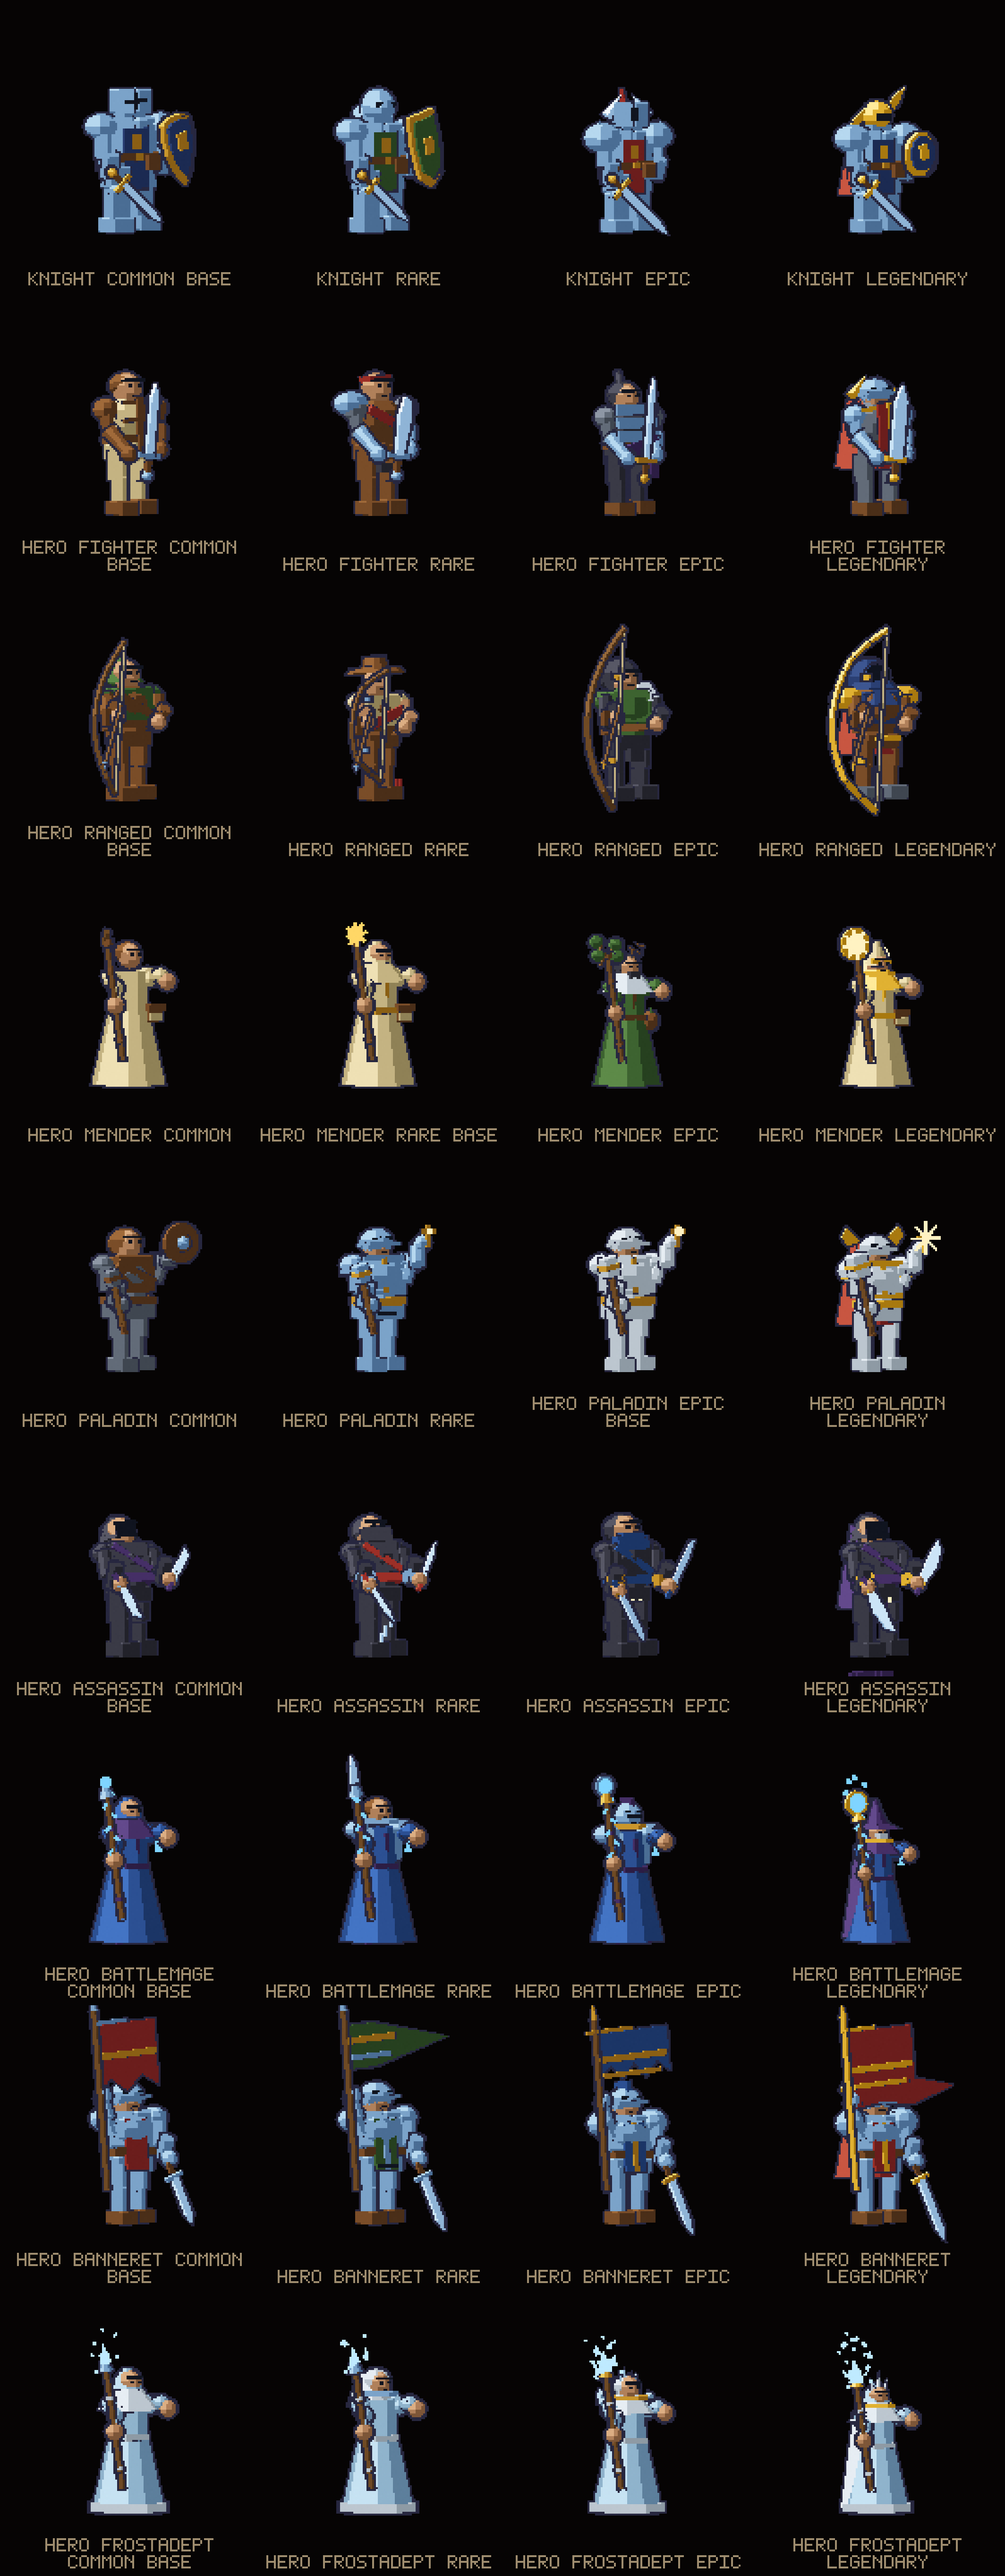
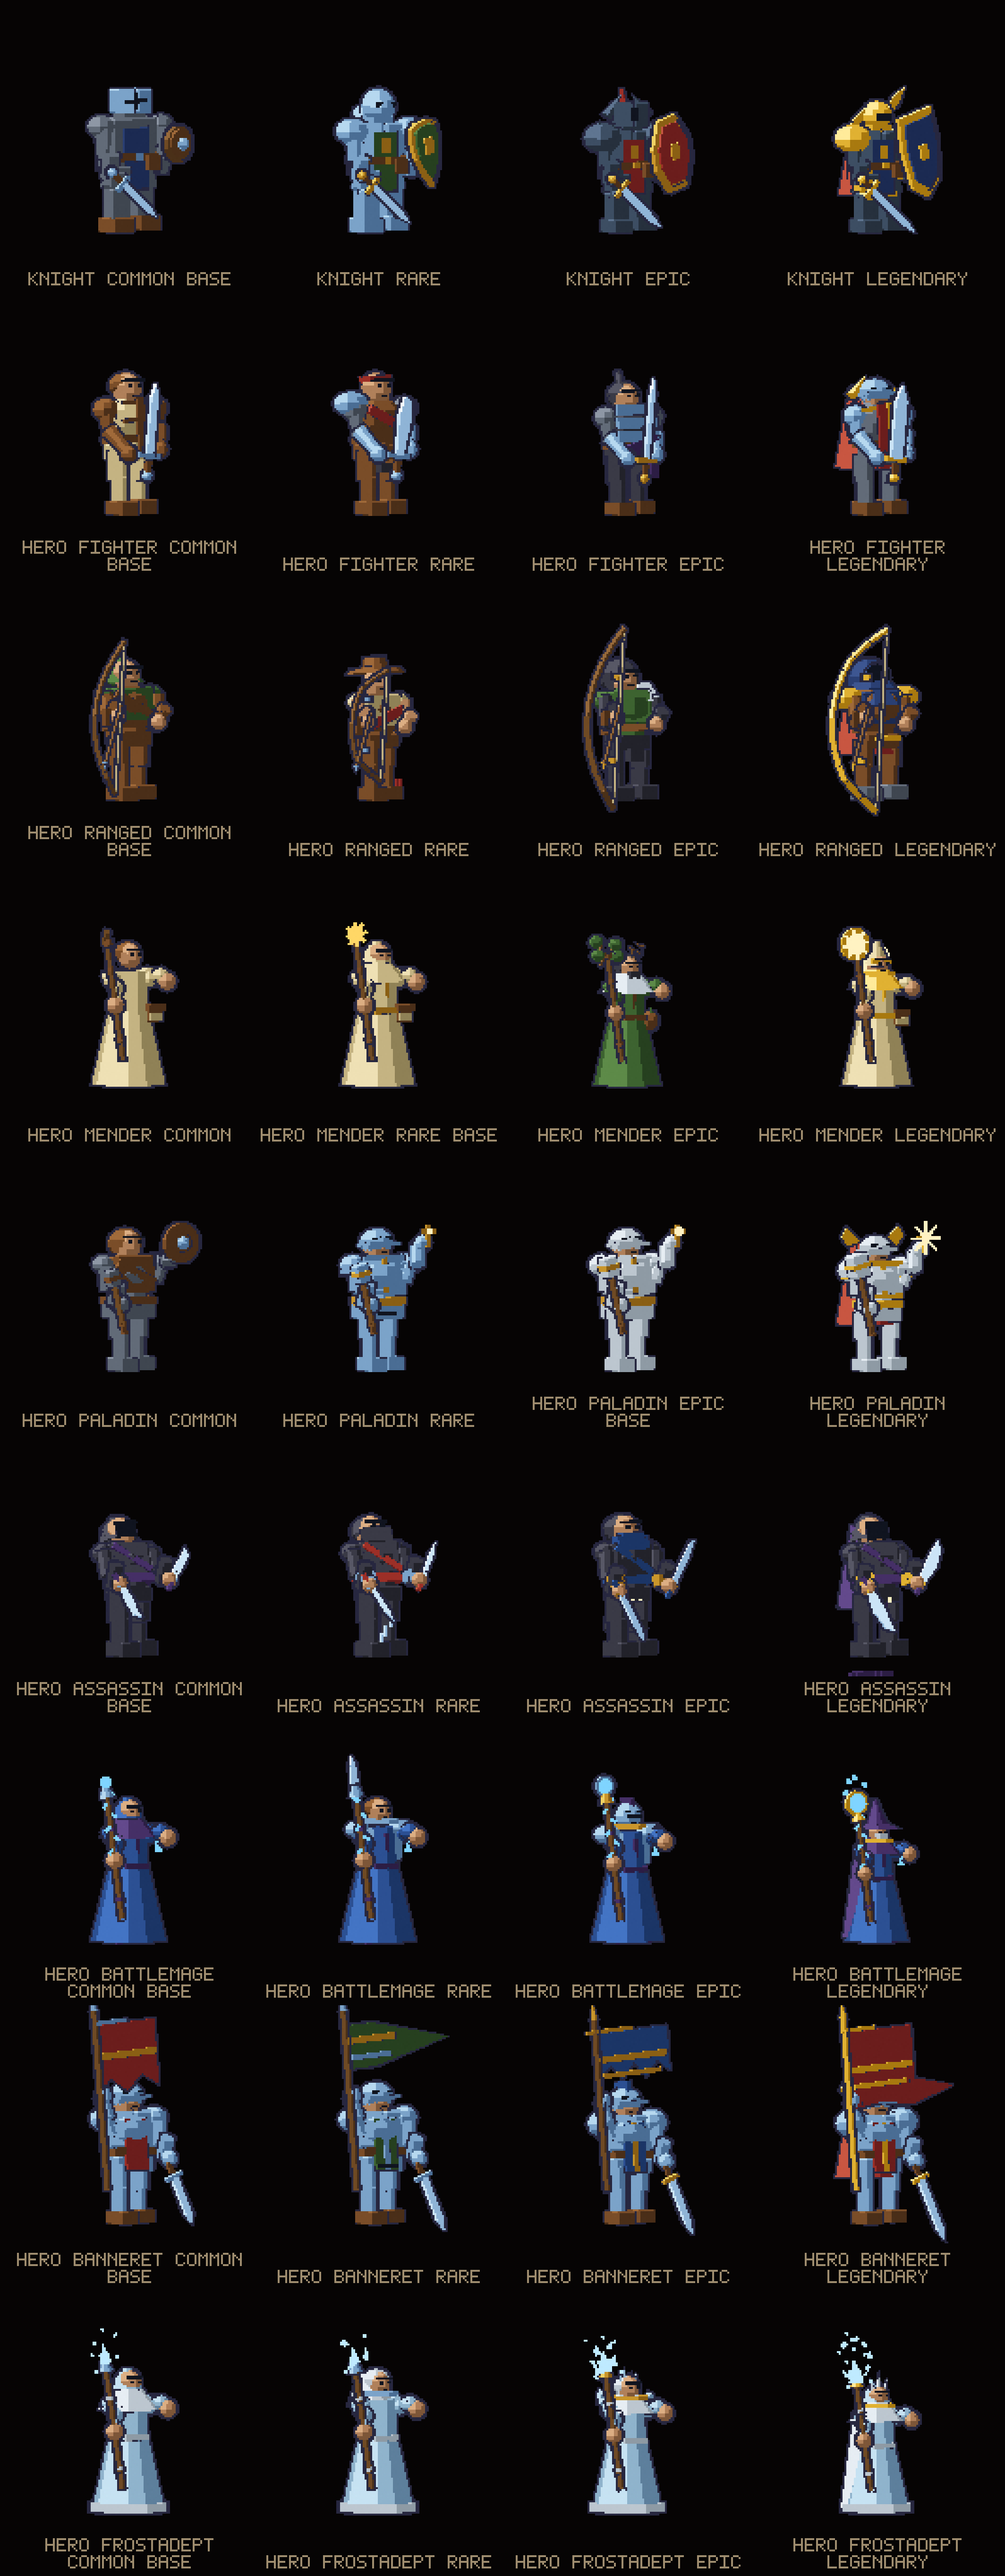
Rebuild the guardian line so the tiers escalate instead of just differing
The four guardians were four helmets on one suit of full plate, and the common
already wore the best armour in the game, so there was nowhere above him to go.
The developer's verdict was "just different, but not necessarily better as the
tiers progress", and his own suggestion was to start the common with less.

The ladder is now armour and shield together. The common is a mail-clad
man-at-arms with leather boots, a plain boarded shield with a steel boss, the
shortest sword and no gilt anywhere: no gold buckle, no gilt sword fittings, no
heraldic lion, and shoulders narrow enough that he no longer has the widest
silhouette in the line.

Two places the ladder actually ran backwards are fixed. The epic carried no
shield at all, and the legendary's was smaller than the common's. All four
shields are now sized against each other and each measures bigger than the last:
a 0.76 buckler, a 1.48-tall kite, a 1.72-tall octagon, a 2.04-tall pavise. Round
shields have to be compared on diameter against tall ones' height, which is the
comparison that was never made -- a 1.20-across roundel lost to a 1.82-tall
tower while being meant as the best shield in the line.

A second review pass found the top three still reading alike, because they all
wore the same blue steel. Each tier is now a different metal: dull mail, bright
steel, then blackened steel for the top two, with the Paragon wearing his gold
over the dark plate rather than instead of it. Helm and shield shape still make
[…]

diff --git a/tools/blender/build_knight.py b/tools/blender/build_knight.py
@@ -62,49 +62,87 @@ if TIER == "base":
 
 SURCOAT = {"common": NAVY, "rare": GREEN, "epic": CRIMSON, "legendary": NAVY}[TIER]
 
+# USER REVIEW 2026-08-01: the guardians were "just different, but not necessarily
+# better as the tiers progress". They were four helmets on ONE suit of full plate,
+# and the common already wore the best armour in the game, so there was nowhere
+# above him to go. The developer's own suggestion was to start him with less.
+#
+# The ladder is now ARMOUR, climbing mail -> plate -> ornate plate -> gilded
+# plate, with the shield climbing beside it. Helm shape still separates the four
+# people; it is no longer carrying the escalation on its own.
+MAIL = P.toon_mat("KMAIL", "#3f4650", "#626b78", "#8e97a5")
+WOOD = P.toon_mat("KWOOD", "#4a3018", "#6f4a24", "#96693a")
+DARKSTEEL = P.toon_mat("KDARKSTEEL", "#26303d", "#3d4e63", "#5f7591")
+
+# Each tier is a DIFFERENT METAL, because the developer's second look found the
+# top three still reading alike. Dull mail, bright steel, then blackened steel for
+# the top two, which the Paragon wears under gold rather than in place of it (user,
+# 2026-08-02). Helm shape and shield shape separate the four people; metal is what
+# separates them at sprite scale.
+BODY = {"common": MAIL, "rare": STEEL, "epic": DARKSTEEL, "legendary": DARKSTEEL}[TIER]
+# The Paragon's major plates are GOLD. A gilded helm on an otherwise steel body
+# left him looking like the Sentinel and the Vanguard.
+ACCENT = BRIGHTGOLD if TIER == "legendary" else BODY
+# Gilt fittings. The common has NONE, which is most of why he stops outranking
+# the tiers above him.
+TRIM_M = {"common": None, "rare": GOLD, "epic": GOLD, "legendary": BRIGHTGOLD}[TIER]
+PLATED = TIER != "common"       # knee cops and a faceted breastplate: plate only
+
 figure, detail = [], []
 
 # ---- legs: front leg pulled toward camera so the two read apart ----
 for s, yoff, zoff in ((-1, -0.22, 0.0), (1, 0.20, 0.02)):
-    figure.append(P.add_box(scn, "boot", (s * 0.44, yoff - 0.05, 0.15 + zoff), (0.48, 0.66, 0.30), STEEL, bevel=0.04))
-    figure.append(P.add_box(scn, "greave", (s * 0.41, yoff, 0.58 + zoff), (0.40, 0.42, 0.66), STEEL, bevel=0.05))
-    figure.append(P.add_sphere(scn, "poleyn", (s * 0.41, yoff - 0.14, 0.90 + zoff), 0.22, STEEL, scale=(1, .85, .72)))
-    figure.append(P.add_box(scn, "cuisse", (s * 0.38, yoff * 0.6, 1.12), (0.42, 0.46, 0.48), STEEL,
+    figure.append(P.add_box(scn, "boot", (s * 0.44, yoff - 0.05, 0.15 + zoff), (0.48, 0.66, 0.30),
+                            BODY if PLATED else LEATH, bevel=0.04))
+    figure.append(P.add_box(scn, "greave", (s * 0.41, yoff, 0.58 + zoff), (0.40, 0.42, 0.66), BODY, bevel=0.05))
+    if PLATED:
+        figure.append(P.add_sphere(scn, "poleyn", (s * 0.41, yoff - 0.14, 0.90 + zoff), 0.22, ACCENT, scale=(1, .85, .72)))
+    figure.append(P.add_box(scn, "cuisse", (s * 0.38, yoff * 0.6, 1.12), (0.42, 0.46, 0.48), BODY,
                             rot=(0, math.radians(-s * 7), 0), bevel=0.05))
 
-# ---- hips, belt, faceted breastplate ----
-figure.append(P.add_box(scn, "tassets", (0, 0, 1.38), (1.12, 0.62, 0.34), STEEL, bevel=0.05))
+# ---- hips, belt, breastplate (faceted plate, or a plain mail hauberk) ----
+figure.append(P.add_box(scn, "tassets", (0, 0, 1.38), (1.12, 0.62, 0.34), ACCENT, bevel=0.05))
 figure.append(P.add_box(scn, "belt", (0, -0.02, 1.54), (1.16, 0.66, 0.17), LEATH))
-detail.append(P.add_box(scn, "buckle", (0.04, -0.36, 1.54), (0.15, 0.06, 0.14), GOLD))
+detail.append(P.add_box(scn, "buckle", (0.04, -0.36, 1.54), (0.15, 0.06, 0.14), TRIM_M or STEEL))
 figure.append(P.add_box(scn, "pouch", (0.36, -0.34, 1.42), (0.30, 0.24, 0.32), LEATH, bevel=0.04))
-figure += P.add_ridged(scn, "torso", (0, 0, 1.94), (1.14, 0.56, 0.82), STEEL, splay=13, bevel=0.07)
+if PLATED:
+    figure += P.add_ridged(scn, "torso", (0, 0, 1.94), (1.14, 0.56, 0.82), BODY, splay=13, bevel=0.07)
+else:
+    figure.append(P.add_box(scn, "torso", (0, 0, 1.94), (1.10, 0.54, 0.82), BODY, bevel=0.06))
 
 # ---- surcoat, sitting proud of the breastplate so it outlines against it ----
 figure.append(P.add_box(scn, "surcoat", (0, -0.30, 1.52), (0.56, 0.07, 1.24), SURCOAT))
 figure.append(P.add_box(scn, "surcoatB", (0, 0.29, 1.52), (0.56, 0.07, 1.24), SURCOAT))
-detail.append(P.add_box(scn, "lion", (0, -0.35, 1.86), (0.22, 0.04, 0.30),
-                        BRIGHTGOLD if TIER == "legendary" else GOLD))
+if TRIM_M:
+    detail.append(P.add_box(scn, "lion", (0, -0.35, 1.86), (0.22, 0.04, 0.30), TRIM_M))
 
 # ---- shoulders and arms, pulled forward off the torso ----
 # `pauldronR` is the pivot the attack animation swings his sword arm about
 # (build_attack.knight), so it may grow but must stay the topmost right-arm part.
-PAULD = {"common": 0.35, "rare": 0.37, "epic": 0.46, "legendary": 0.44}[TIER]
-figure.append(P.add_sphere(scn, "pauldronR", (-0.70, -0.10, 2.18), PAULD, STEEL, scale=(1, .95, .76)))
+# The common's shoulders come down with the rest of him: a mail-clad man-at-arms
+# does not have the widest silhouette in the line.
+PAULD = {"common": 0.30, "rare": 0.37, "epic": 0.46, "legendary": 0.44}[TIER]
+figure.append(P.add_sphere(scn, "pauldronR", (-0.70, -0.10, 2.18), PAULD, ACCENT, scale=(1, .95, .76)))
 figure.append(P.add_sphere(scn, "pauldronL", (0.70, -0.10, 2.20),
-                           PAULD - 0.05, STEEL, scale=(1, .95, .78)))
+                           PAULD - 0.05, ACCENT, scale=(1, .95, .78)))
 if TIER == "epic":
     # The Vanguard is the heavy: spiked cops standing out past the pauldrons.
     for s, r in ((-1, 0.46), (1, 0.41)):
         figure.append(P.add_cone(scn, "spike", (s * 0.86, -0.10, 2.40), 0.16, 0.0, 0.40,
-                                 STEEL, rot=(0, math.radians(-s * 22), 0), verts=6))
-figure.append(P.add_cyl(scn, "upperR", (-0.70, -0.18, 1.84), 0.18, 0.60, STEEL))
-figure.append(P.add_cyl(scn, "foreR", (-0.63, -0.32, 1.38), 0.17, 0.50, STEEL, rot=(math.radians(16), 0, 0)))
-figure.append(P.add_box(scn, "gauntR", (-0.59, -0.42, 1.12), (0.26, 0.26, 0.24), STEEL))
-figure.append(P.add_cyl(scn, "upperL", (0.70, -0.16, 1.86), 0.17, 0.56, STEEL))
-figure.append(P.add_cyl(scn, "foreL", (0.66, -0.30, 1.46), 0.16, 0.48, STEEL, rot=(math.radians(24), 0, 0)))
+                                 BODY, rot=(0, math.radians(-s * 22), 0), verts=6))
+# Arms taper so each segment's end cap is buried in the piece that swallows it --
+# see the limb rule in README.md. Cylinders left a dark outline across every joint
+# and the arm read as a chain of separate lumps.
+figure.append(P.add_cone(scn, "upperR", (-0.70, -0.18, 1.84), 0.12, 0.19, 0.60, BODY, verts=10))
+figure.append(P.add_cone(scn, "foreR", (-0.63, -0.32, 1.38), 0.15, 0.185, 0.50, BODY, verts=10,
+                         rot=(math.radians(16), 0, 0)))
+figure.append(P.add_box(scn, "gauntR", (-0.59, -0.42, 1.10), (0.34, 0.34, 0.28), ACCENT, bevel=0.04))
+figure.append(P.add_cone(scn, "upperL", (0.70, -0.16, 1.86), 0.11, 0.18, 0.56, BODY, verts=10))
+figure.append(P.add_cone(scn, "foreL", (0.66, -0.30, 1.46), 0.14, 0.175, 0.48, BODY, verts=10,
+                         rot=(math.radians(24), 0, 0)))
 
 # ---- gorget, then a different head on every tier ----
-figure.append(P.add_box(scn, "gorget", (0, 0, 2.40), (0.52, 0.46, 0.18), STEEL, bevel=0.04))
+figure.append(P.add_box(scn, "gorget", (0, 0, 2.40), (0.52, 0.46, 0.18), ACCENT, bevel=0.04))
 
 if TIER == "common":
     # the Knight: faceted great helm with a cross slit
@@ -122,11 +160,14 @@ elif TIER == "rare":
 elif TIER == "epic":
     # the Vanguard: a horned barbute. Horns are the widest thing on any hero head
     # and read at any size.
-    figure += P.add_ridged(scn, "helm", (0, -0.02, 2.70), (0.68, 0.58, 0.56), STEEL, splay=9, bevel=0.05)
+    figure += P.add_ridged(scn, "helm", (0, -0.02, 2.70), (0.68, 0.58, 0.56), BODY, splay=9, bevel=0.05)
     detail.append(P.add_box(scn, "visorslit", (0, -0.34, 2.72), (0.13, 0.06, 0.34), DARK))
     for s in (-1, 1):
+        # STEEL, not BLADE. The blade material is nearly white, so horns made of
+        # it read as a separate pale shape stuck on the helm rather than as part
+        # of it.
         figure.append(P.add_cone(scn, "horn", (s * 0.34, 0.02, 2.92), 0.13, 0.0, 0.62,
-                                 BLADE, rot=(0, math.radians(-s * 38), 0), verts=7))
+                                 BODY, rot=(0, math.radians(-s * 38), 0), verts=7))
 else:
     # the Paragon: a winged crown, gilded, face open. He is the only guardian
     # whose face is visible at all, which is the whole point of him.
@@ -139,39 +180,56 @@ else:
                                   0.07, BRIGHTGOLD, loc=(s * 0.30, 0.04, 2.78),
                                   rot=(0, math.radians(-s * 90 + 90), 0)))
 
-# ---- shield: a different shape per tier, and none at all for the Vanguard ----
+# ---- shield: it climbs WITH the armour, and every tier carries one ----
+# The Vanguard used to carry no shield at all and the Paragon's was smaller than
+# the Knight's, which is two of the places the ladder ran backwards.
+# FOUR SHAPES, EACH BIGGER THAN THE LAST. Measured, not judged by eye: the round
+# shields have to be compared on DIAMETER against the tall ones' height, and a
+# 1.20-across roundel lost to a 1.82-tall tower even though it was meant to be the
+# best shield in the line (user, 2026-08-01).
+#   buckler  0.76 x 0.76      kite   0.88 x 1.48
+#   octagon  1.24 x 1.72      pavise 1.24 x 2.04
+buckler = [(0.38 * math.cos(math.radians(a)), 0.38 * math.sin(math.radians(a)))
+           for a in range(0, 360, 30)]
 kite = [(-0.20, 0.60), (-0.40, 0.50), (-0.44, 0.22), (-0.38, -0.16), (-0.22, -0.56),
         (0.0, -0.88), (0.22, -0.56), (0.38, -0.16), (0.44, 0.22), (0.40, 0.50), (0.20, 0.60)]
-tower = [(-0.40, 0.78), (0.40, 0.78), (0.44, 0.10), (0.34, -0.62), (0.0, -0.86),
-         (-0.34, -0.62), (-0.44, 0.10)]
-roundel = [(0.52 * math.cos(math.radians(a)), 0.52 * math.sin(math.radians(a)))
-           for a in range(0, 360, 30)]
+octagon = [(-0.30, 0.86), (0.30, 0.86), (0.62, 0.26), (0.62, -0.26), (0.30, -0.86),
+           (-0.30, -0.86), (-0.62, -0.26), (-0.62, 0.26)]
+pavise = [(-0.56, 1.00), (0.56, 1.00), (0.62, 0.22), (0.46, -0.70), (0.0, -1.04),
+          (-0.46, -0.70), (-0.62, 0.22)]
 
-SHIELD_SHAPE = {"common": kite, "rare": tower, "epic": None, "legendary": roundel}[TIER]
+SHIELD_SHAPE = {"common": buckler, "rare": kite, "epic": octagon, "legendary": pavise}[TIER]
 sh_root = P.make_root(scn, "shield_root", rot=(0, -14, 18), loc=(0.84, -0.58, 1.80))
 shield, sh_lion = [], None
-if SHIELD_SHAPE is not None:
-    back = BRIGHTGOLD if TIER == "legendary" else GOLD
+if TIER == "common":
+    # boards and a steel boss. No heraldry and no gilt rim, because those are
+    # exactly what the tiers above him are supposed to introduce.
+    shield = [P.add_prism(scn, "shieldback", SHIELD_SHAPE, 0.11, WOOD),
+              P.add_prism(scn, "shieldface", [(x * 0.80, z * 0.80) for x, z in SHIELD_SHAPE],
+                          0.11, LEATH, loc=(0, -0.06, 0.02))]
+    sh_lion = P.add_sphere(scn, "shieldlion", (0, -0.13, 0.0), 0.14, STEEL)
+else:
+    back = TRIM_M
     shield = [P.add_prism(scn, "shieldback", SHIELD_SHAPE, 0.11, back),
               P.add_prism(scn, "shieldface", [(x * 0.78, z * 0.80) for x, z in SHIELD_SHAPE],
                           0.11, SURCOAT, loc=(0, -0.06, 0.02))]
     sh_lion = P.add_box(scn, "shieldlion", (0, -0.14, 0.06), (0.26, 0.05, 0.36), back)
-    P.parent_all(sh_root, shield + [sh_lion])
+P.parent_all(sh_root, shield + [sh_lion])
 
 # ---- sword: local z=0 sits at the hand, blade runs up +Z ----
-# The Vanguard carries no shield, so his blade is the long two-handed one. The
-# Paragon's is longer still and gilded at the guard.
-BL = {"common": 1.00, "rare": 0.96, "epic": 1.30, "legendary": 1.22}[TIER]
-BW = {"common": 1.00, "rare": 0.92, "epic": 1.26, "legendary": 1.10}[TIER]
+# Every tier now carries a shield, so the blade grows steadily instead of the
+# Vanguard jumping to a two-hander because his shield hand was empty. The common
+# carries the shortest and plainest, with steel fittings rather than gilt.
+BL = {"common": 0.88, "rare": 1.00, "epic": 1.12, "legendary": 1.26}[TIER]
+BW = {"common": 0.88, "rare": 0.98, "epic": 1.16, "legendary": 1.10}[TIER]
 blade = [(-0.06 * BW, 0.14), (0.06 * BW, 0.14), (0.06 * BW, 1.08 * BL),
          (0.0, 1.32 * BL), (-0.06 * BW, 1.08 * BL)]
 sw_root = P.make_root(scn, "sword_root", rot=(0, 132, 0), loc=(-0.60, -0.66, 1.10))
+FITTING = TRIM_M or STEEL
 sword = [P.add_prism(scn, "blade", blade, 0.11, BLADE),
-         P.add_box(scn, "guard", (0, 0, 0.12), (0.44 * BW, 0.10, 0.10),
-                   BRIGHTGOLD if TIER == "legendary" else GOLD),
+         P.add_box(scn, "guard", (0, 0, 0.12), (0.44 * BW, 0.10, 0.10), FITTING),
          P.add_box(scn, "grip", (0, 0, -0.08), (0.11, 0.10, 0.24), LEATH),
-         P.add_sphere(scn, "pommel", (0, 0, -0.23), 0.10,
-                      BRIGHTGOLD if TIER == "legendary" else GOLD)]
+         P.add_sphere(scn, "pommel", (0, 0, -0.23), 0.10, FITTING)]
 P.parent_all(sw_root, sword)
 
 if TIER == "epic":
